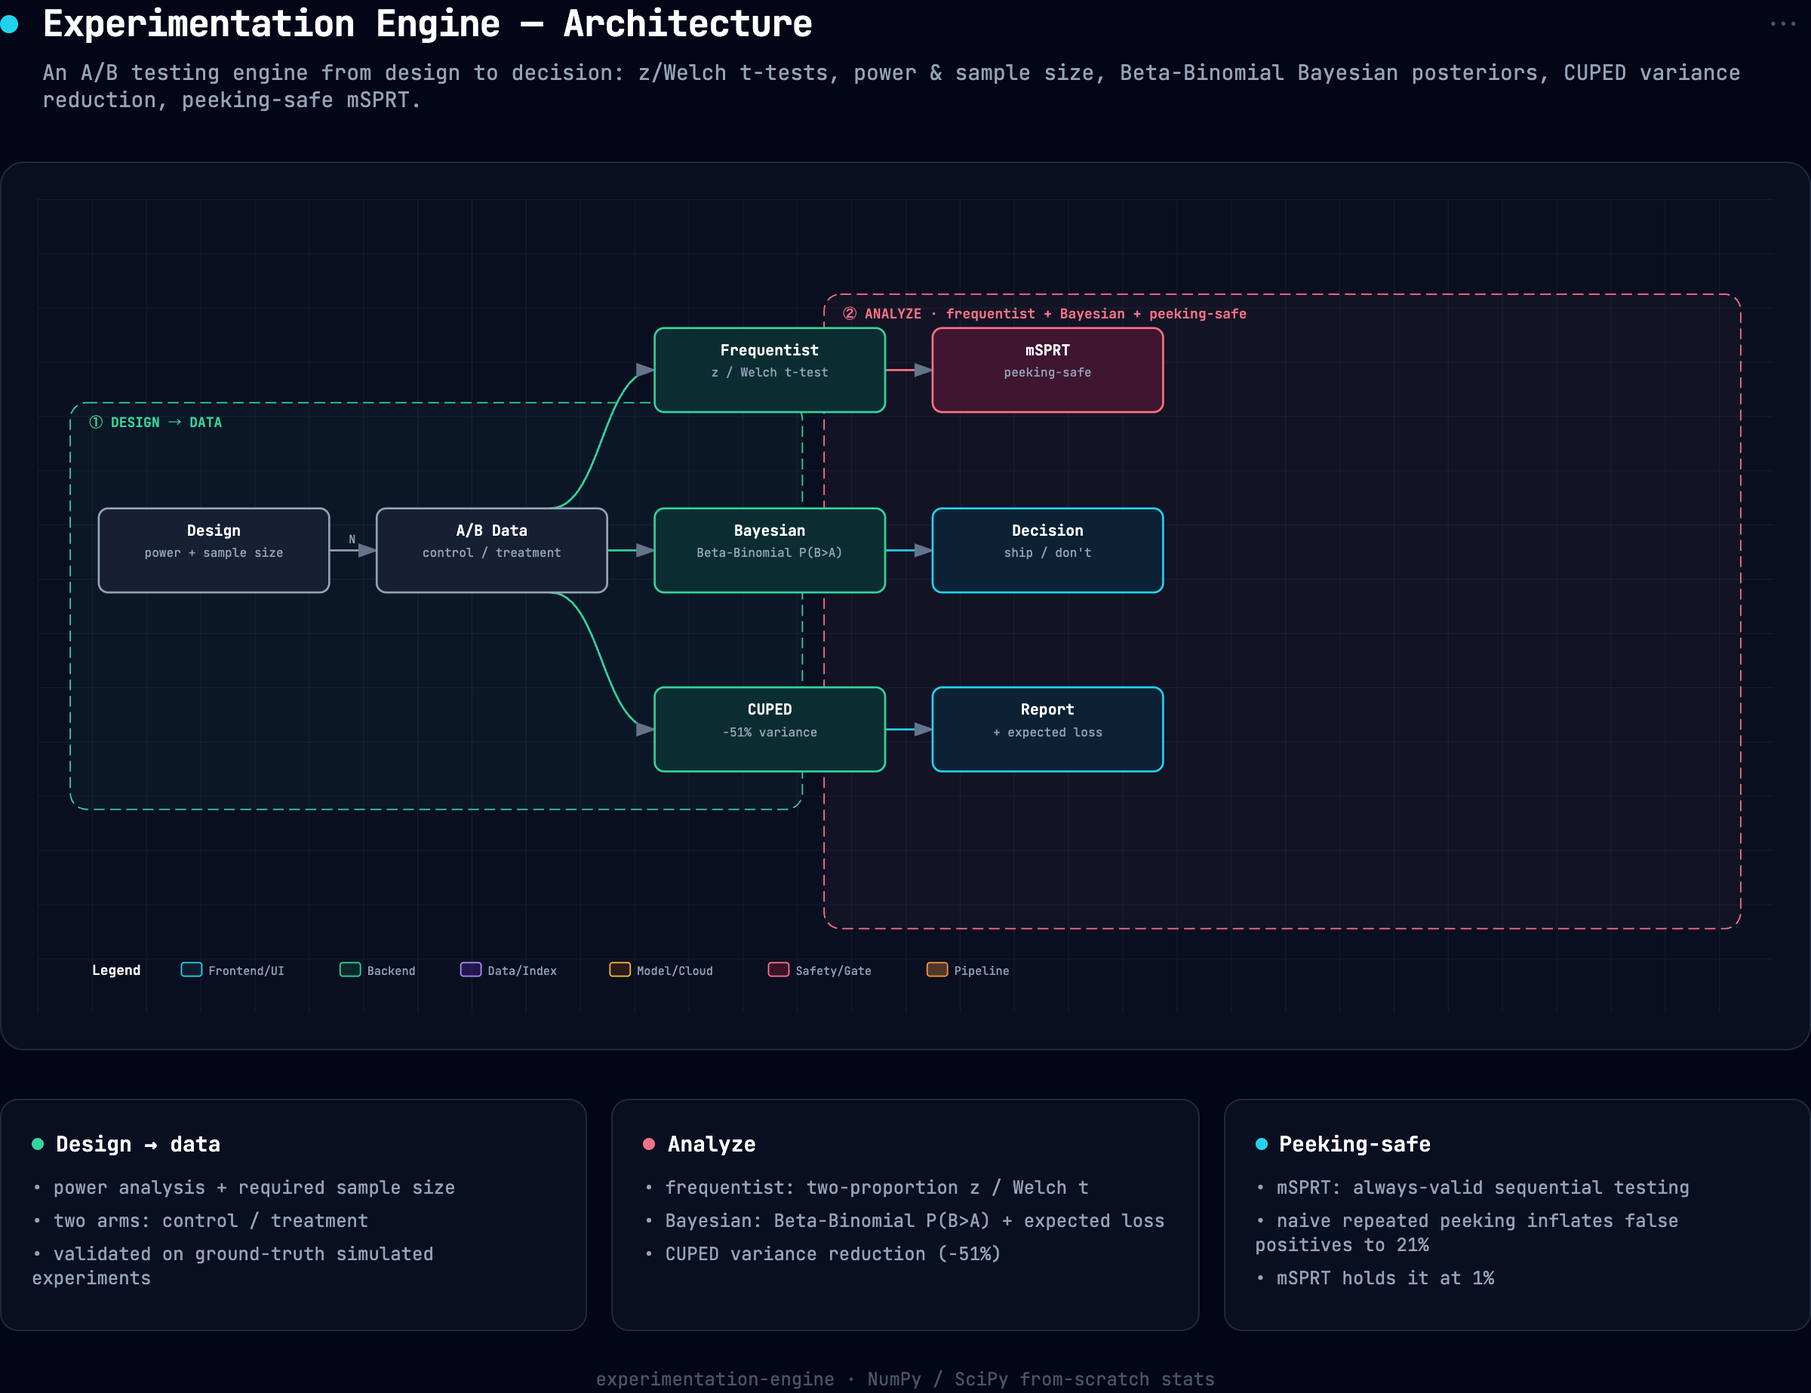
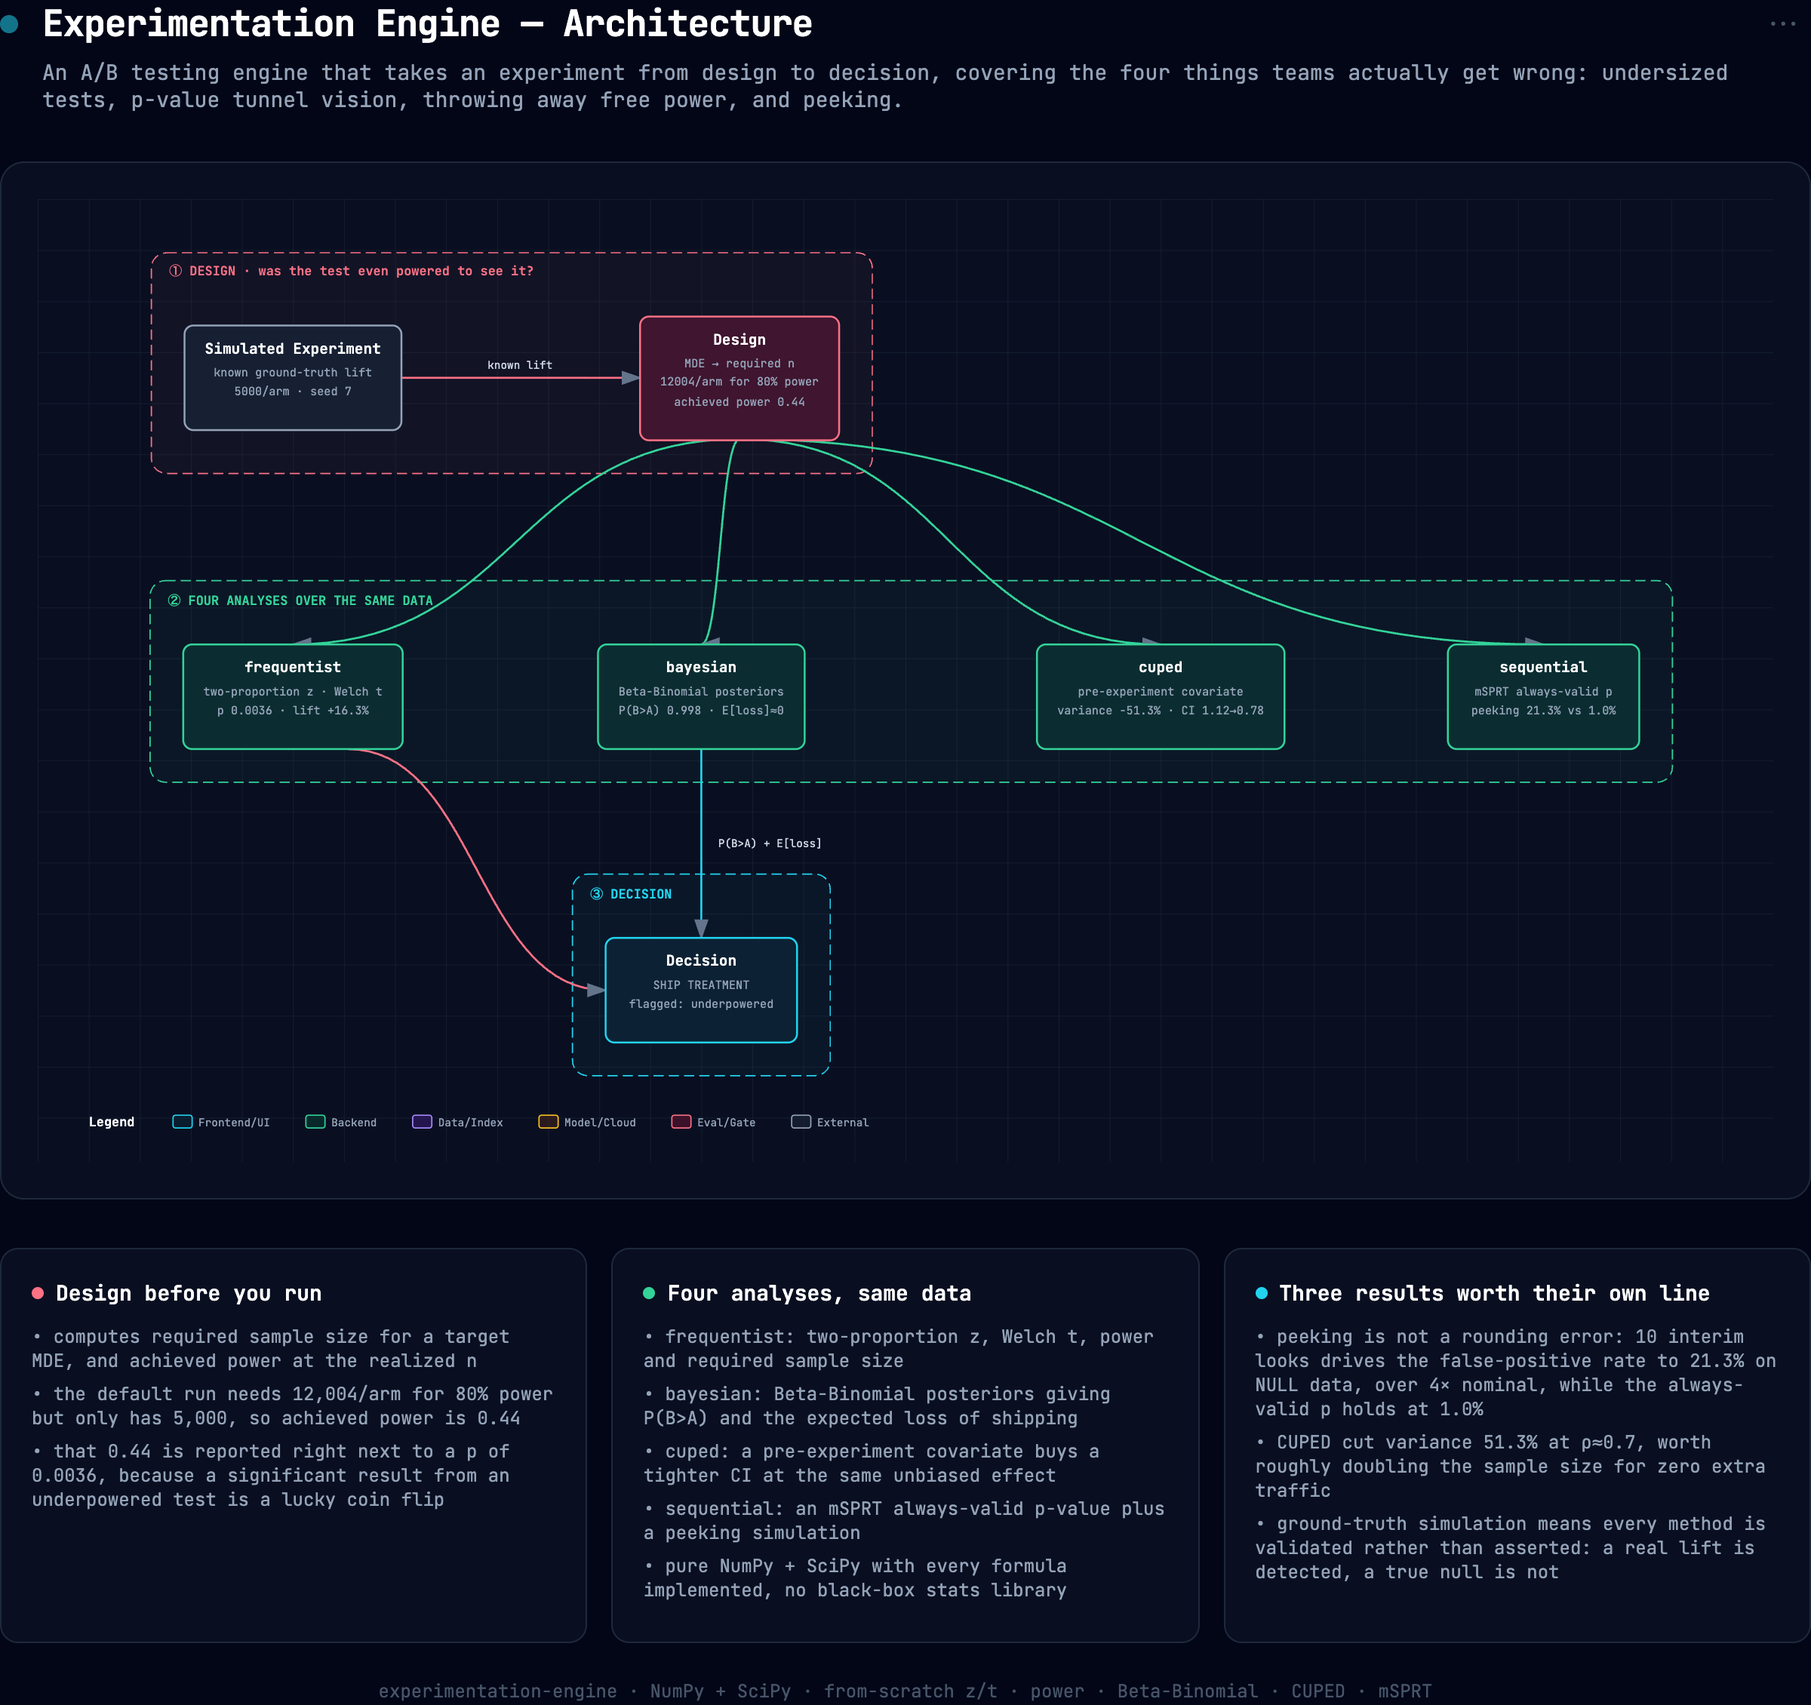
docs: rebuild architecture diagram with the geometry-validated generator
Layout: measured box widths, validated region and label clearances.

Content re-grounded in the README:
- design comes first on the canvas, with the real numbers: 12,004/arm needed
  for 80% power against 5,000 actually run, so achieved power is 0.44
- all four analysis modules carry their measured output: p 0.0036 and
  +16.3% lift, P(B>A) 0.998, variance -51.3% with CI 1.12 to 0.78, and
  peeking 21.3% vs always-valid 1.0%
- the peeking result is the one that changes behaviour, so it is on the box
  rather than buried in prose

diff --git a/docs/assets/architecture.html b/docs/assets/architecture.html
@@ -185,70 +185,77 @@
     <div class="header"><div class="header-row"><div class="pulse-dot"></div>
       <h1>Experimentation Engine — Architecture</h1>
       <div class="toolbar"><div class="toolbar-actions"><button onclick="copyAsImage(this)">📋 Copy</button><button onclick="downloadPNG(this)">🖼 PNG</button><button onclick="downloadPDF(this)">📄 PDF</button></div><button class="toolbar-toggle" onclick="this.parentElement.classList.toggle('expanded')">⋯</button></div>
-    </div><p class="subtitle">An A/B testing engine from design to decision: z/Welch t-tests, power &amp; sample size, Beta-Binomial Bayesian posteriors, CUPED variance reduction, peeking-safe mSPRT.</p></div>
-    <div class="diagram-container"><svg viewBox="0 0 1280 600">
+    </div><p class="subtitle">An A/B testing engine that takes an experiment from design to decision, covering the four things teams actually get wrong: undersized tests, p-value tunnel vision, throwing away free power, and peeking.</p></div>
+    <div class="diagram-container"><svg viewBox="0 0 1360 755">
 <defs><marker id="arrowhead" markerWidth="10" markerHeight="7" refX="9" refY="3.5" orient="auto"><polygon points="0 0, 10 3.5, 0 7" fill="#64748b"/></marker><marker id="loop" markerWidth="11" markerHeight="8" refX="9" refY="4" orient="auto"><polygon points="0 0, 11 4, 0 8" fill="#22d3ee"/></marker><pattern id="grid" width="40" height="40" patternUnits="userSpaceOnUse"><path d="M 40 0 L 0 0 0 40" fill="none" stroke="#1e293b" stroke-width="0.5"/></pattern></defs>
-<rect width="1280" height="600" fill="url(#grid)"/>
-<rect x="24" y="150" width="540" height="300" rx="12" fill="rgba(52,211,153,0.04)" stroke="#34d399" stroke-width="1" stroke-dasharray="8,4"/>
-<text x="38" y="168" fill="#34d399" font-size="10" font-weight="600">① DESIGN → DATA</text>
-<rect x="580" y="70" width="676" height="468" rx="12" fill="rgba(251,113,133,0.04)" stroke="#fb7185" stroke-width="1" stroke-dasharray="8,4"/>
-<text x="594" y="88" fill="#fb7185" font-size="10" font-weight="600">② ANALYZE  ·  frequentist + Bayesian + peeking-safe</text>
-<line x1="215" y1="259" x2="250" y2="259" stroke="#94a3b8" stroke-width="1.5" marker-end="url(#arrowhead)"/>
-<text x="232" y="254" fill="#94a3b8" font-size="8.5" text-anchor="middle">N</text>
-<path d="M 378 228 C 416 228, 416 126, 455 126" fill="none" stroke="#34d399" stroke-width="1.5" marker-end="url(#arrowhead)"/>
-<line x1="420" y1="259" x2="455" y2="259" stroke="#34d399" stroke-width="1.5" marker-end="url(#arrowhead)"/>
-<path d="M 378 290 C 416 290, 416 391, 455 391" fill="none" stroke="#34d399" stroke-width="1.5" marker-end="url(#arrowhead)"/>
-<line x1="625" y1="126" x2="660" y2="126" stroke="#fb7185" stroke-width="1.5" marker-end="url(#arrowhead)"/>
-<line x1="625" y1="259" x2="660" y2="259" stroke="#22d3ee" stroke-width="1.5" marker-end="url(#arrowhead)"/>
-<line x1="625" y1="391" x2="660" y2="391" stroke="#22d3ee" stroke-width="1.5" marker-end="url(#arrowhead)"/>
-<rect x="45" y="228" width="170" height="62" rx="7" fill="#0f172a"/>
-<rect x="45" y="228" width="170" height="62" rx="7" fill="rgba(30, 41, 59, 0.5)" stroke="#94a3b8" stroke-width="1.5"/>
-<text x="130" y="248" fill="#fff" font-size="11" font-weight="600" text-anchor="middle">Design</text>
-<text x="130" y="264" fill="#94a3b8" font-size="9" text-anchor="middle">power + sample size</text>
-<rect x="250" y="228" width="170" height="62" rx="7" fill="#0f172a"/>
-<rect x="250" y="228" width="170" height="62" rx="7" fill="rgba(30, 41, 59, 0.5)" stroke="#94a3b8" stroke-width="1.5"/>
-<text x="335" y="248" fill="#fff" font-size="11" font-weight="600" text-anchor="middle">A/B Data</text>
-<text x="335" y="264" fill="#94a3b8" font-size="9" text-anchor="middle">control / treatment</text>
-<rect x="455" y="95" width="170" height="62" rx="7" fill="#0f172a"/>
-<rect x="455" y="95" width="170" height="62" rx="7" fill="rgba(6, 78, 59, 0.4)" stroke="#34d399" stroke-width="1.5"/>
-<text x="540" y="115" fill="#fff" font-size="11" font-weight="600" text-anchor="middle">Frequentist</text>
-<text x="540" y="131" fill="#94a3b8" font-size="9" text-anchor="middle">z / Welch t-test</text>
-<rect x="455" y="228" width="170" height="62" rx="7" fill="#0f172a"/>
-<rect x="455" y="228" width="170" height="62" rx="7" fill="rgba(6, 78, 59, 0.4)" stroke="#34d399" stroke-width="1.5"/>
-<text x="540" y="248" fill="#fff" font-size="11" font-weight="600" text-anchor="middle">Bayesian</text>
-<text x="540" y="264" fill="#94a3b8" font-size="9" text-anchor="middle">Beta-Binomial P(B&gt;A)</text>
-<rect x="455" y="360" width="170" height="62" rx="7" fill="#0f172a"/>
-<rect x="455" y="360" width="170" height="62" rx="7" fill="rgba(6, 78, 59, 0.4)" stroke="#34d399" stroke-width="1.5"/>
-<text x="540" y="380" fill="#fff" font-size="11" font-weight="600" text-anchor="middle">CUPED</text>
-<text x="540" y="396" fill="#94a3b8" font-size="9" text-anchor="middle">−51% variance</text>
-<rect x="660" y="95" width="170" height="62" rx="7" fill="#0f172a"/>
-<rect x="660" y="95" width="170" height="62" rx="7" fill="rgba(136, 19, 55, 0.4)" stroke="#fb7185" stroke-width="1.5"/>
-<text x="745" y="115" fill="#fff" font-size="11" font-weight="600" text-anchor="middle">mSPRT</text>
-<text x="745" y="131" fill="#94a3b8" font-size="9" text-anchor="middle">peeking-safe</text>
-<rect x="660" y="228" width="170" height="62" rx="7" fill="#0f172a"/>
-<rect x="660" y="228" width="170" height="62" rx="7" fill="rgba(8, 51, 68, 0.4)" stroke="#22d3ee" stroke-width="1.5"/>
-<text x="745" y="248" fill="#fff" font-size="11" font-weight="600" text-anchor="middle">Decision</text>
-<text x="745" y="264" fill="#94a3b8" font-size="9" text-anchor="middle">ship / don't</text>
-<rect x="660" y="360" width="170" height="62" rx="7" fill="#0f172a"/>
-<rect x="660" y="360" width="170" height="62" rx="7" fill="rgba(8, 51, 68, 0.4)" stroke="#22d3ee" stroke-width="1.5"/>
-<text x="745" y="380" fill="#fff" font-size="11" font-weight="600" text-anchor="middle">Report</text>
-<text x="745" y="396" fill="#94a3b8" font-size="9" text-anchor="middle">+ expected loss</text>
-<text x="40" y="572" fill="#fff" font-size="10" font-weight="600">Legend</text>
-<rect x="106" y="563" width="15" height="10" rx="2" fill="rgba(8, 51, 68, 0.4)" stroke="#22d3ee" stroke-width="1"/>
-<text x="126" y="572" fill="#94a3b8" font-size="8.5">Frontend/UI</text>
-<rect x="223" y="563" width="15" height="10" rx="2" fill="rgba(6, 78, 59, 0.4)" stroke="#34d399" stroke-width="1"/>
-<text x="243" y="572" fill="#94a3b8" font-size="8.5">Backend</text>
-<rect x="312" y="563" width="15" height="10" rx="2" fill="rgba(76, 29, 149, 0.4)" stroke="#a78bfa" stroke-width="1"/>
-<text x="332" y="572" fill="#94a3b8" font-size="8.5">Data/Index</text>
-<rect x="422" y="563" width="15" height="10" rx="2" fill="rgba(120, 53, 15, 0.3)" stroke="#fbbf24" stroke-width="1"/>
-<text x="442" y="572" fill="#94a3b8" font-size="8.5">Model/Cloud</text>
-<rect x="539" y="563" width="15" height="10" rx="2" fill="rgba(136, 19, 55, 0.4)" stroke="#fb7185" stroke-width="1"/>
-<text x="559" y="572" fill="#94a3b8" font-size="8.5">Safety/Gate</text>
-<rect x="656" y="563" width="15" height="10" rx="2" fill="rgba(251, 146, 60, 0.3)" stroke="#fb923c" stroke-width="1"/>
-<text x="676" y="572" fill="#94a3b8" font-size="8.5">Pipeline</text>
+<rect width="1360" height="755" fill="url(#grid)"/>
+<rect x="89" y="42" width="565" height="173" rx="12" fill="rgba(251,113,133,0.04)" stroke="#fb7185" stroke-width="1" stroke-dasharray="8,4"/>
+<text x="103" y="60" fill="#fb7185" font-size="10" font-weight="600">① DESIGN · was the test even powered to see it?</text>
+<rect x="88" y="299" width="1193" height="158" rx="12" fill="rgba(52,211,153,0.04)" stroke="#34d399" stroke-width="1" stroke-dasharray="8,4"/>
+<text x="102" y="318" fill="#34d399" font-size="10" font-weight="600">② FOUR ANALYSES OVER THE SAME DATA</text>
+<rect x="419" y="529" width="202" height="158" rx="12" fill="rgba(34,211,238,0.04)" stroke="#22d3ee" stroke-width="1" stroke-dasharray="8,4"/>
+<text x="433" y="548" fill="#22d3ee" font-size="10" font-weight="600">③ DECISION</text>
+<line x1="285" y1="140" x2="472" y2="140" stroke="#fb7185" stroke-width="1.6" marker-end="url(#arrowhead)"/>
+<text x="378" y="133" fill="#cbd5e1" font-size="8.5" text-anchor="middle">known lift</text>
+<path d="M 550 188 C 375 188, 375 349, 200 349" fill="none" stroke="#34d399" stroke-width="1.6" marker-end="url(#arrowhead)"/>
+<path d="M 550 188 C 535 188, 535 349, 520 349" fill="none" stroke="#34d399" stroke-width="1.6" marker-end="url(#arrowhead)"/>
+<path d="M 550 188 C 715 188, 715 349, 880 349" fill="none" stroke="#34d399" stroke-width="1.6" marker-end="url(#arrowhead)"/>
+<path d="M 550 188 C 865 188, 865 349, 1180 349" fill="none" stroke="#34d399" stroke-width="1.6" marker-end="url(#arrowhead)"/>
+<line x1="520" y1="431" x2="520" y2="579" stroke="#22d3ee" stroke-width="1.6" marker-end="url(#arrowhead)"/>
+<text x="574" y="508" fill="#cbd5e1" font-size="8.5" text-anchor="middle">P(B&gt;A) + E[loss]</text>
+<path d="M 243 431 C 344 431, 344 620, 445 620" fill="none" stroke="#fb7185" stroke-width="1.6" marker-end="url(#arrowhead)"/>
+<rect x="115" y="99" width="170" height="82" rx="7" fill="#0f172a"/>
+<rect x="115" y="99" width="170" height="82" rx="7" fill="rgba(30, 41, 59, 0.5)" stroke="#94a3b8" stroke-width="1.5"/>
+<text x="200" y="121" fill="#fff" font-size="11.5" font-weight="600" text-anchor="middle">Simulated Experiment</text>
+<text x="200" y="139" fill="#94a3b8" font-size="9.0" text-anchor="middle">known ground-truth lift</text>
+<text x="200" y="154" fill="#94a3b8" font-size="9.0" text-anchor="middle">5000/arm · seed 7</text>
+<rect x="472" y="92" width="156" height="97" rx="7" fill="#0f172a"/>
+<rect x="472" y="92" width="156" height="97" rx="7" fill="rgba(136, 19, 55, 0.4)" stroke="#fb7185" stroke-width="1.5"/>
+<text x="550" y="114" fill="#fff" font-size="11.5" font-weight="600" text-anchor="middle">Design</text>
+<text x="550" y="132" fill="#94a3b8" font-size="9.0" text-anchor="middle">MDE → required n</text>
+<text x="550" y="146" fill="#94a3b8" font-size="9.0" text-anchor="middle">12004/arm for 80% power</text>
+<text x="550" y="162" fill="#94a3b8" font-size="9.0" text-anchor="middle">achieved power 0.44</text>
+<rect x="114" y="349" width="172" height="82" rx="7" fill="#0f172a"/>
+<rect x="114" y="349" width="172" height="82" rx="7" fill="rgba(6, 78, 59, 0.4)" stroke="#34d399" stroke-width="1.5"/>
+<text x="200" y="371" fill="#fff" font-size="11.5" font-weight="600" text-anchor="middle">frequentist</text>
+<text x="200" y="389" fill="#94a3b8" font-size="9.0" text-anchor="middle">two-proportion z · Welch t</text>
+<text x="200" y="404" fill="#94a3b8" font-size="9.0" text-anchor="middle">p 0.0036 · lift +16.3%</text>
+<rect x="439" y="349" width="162" height="82" rx="7" fill="#0f172a"/>
+<rect x="439" y="349" width="162" height="82" rx="7" fill="rgba(6, 78, 59, 0.4)" stroke="#34d399" stroke-width="1.5"/>
+<text x="520" y="371" fill="#fff" font-size="11.5" font-weight="600" text-anchor="middle">bayesian</text>
+<text x="520" y="389" fill="#94a3b8" font-size="9.0" text-anchor="middle">Beta-Binomial posteriors</text>
+<text x="520" y="404" fill="#94a3b8" font-size="9.0" text-anchor="middle">P(B&gt;A) 0.998 · E[loss]≈0</text>
+<rect x="783" y="349" width="194" height="82" rx="7" fill="#0f172a"/>
+<rect x="783" y="349" width="194" height="82" rx="7" fill="rgba(6, 78, 59, 0.4)" stroke="#34d399" stroke-width="1.5"/>
+<text x="880" y="371" fill="#fff" font-size="11.5" font-weight="600" text-anchor="middle">cuped</text>
+<text x="880" y="389" fill="#94a3b8" font-size="9.0" text-anchor="middle">pre-experiment covariate</text>
+<text x="880" y="404" fill="#94a3b8" font-size="9.0" text-anchor="middle">variance −51.3% · CI 1.12→0.78</text>
+<rect x="1105" y="349" width="150" height="82" rx="7" fill="#0f172a"/>
+<rect x="1105" y="349" width="150" height="82" rx="7" fill="rgba(6, 78, 59, 0.4)" stroke="#34d399" stroke-width="1.5"/>
+<text x="1180" y="371" fill="#fff" font-size="11.5" font-weight="600" text-anchor="middle">sequential</text>
+<text x="1180" y="389" fill="#94a3b8" font-size="9.0" text-anchor="middle">mSPRT always-valid p</text>
+<text x="1180" y="404" fill="#94a3b8" font-size="9.0" text-anchor="middle">peeking 21.3% vs 1.0%</text>
+<rect x="445" y="579" width="150" height="82" rx="7" fill="#0f172a"/>
+<rect x="445" y="579" width="150" height="82" rx="7" fill="rgba(8, 51, 68, 0.4)" stroke="#22d3ee" stroke-width="1.5"/>
+<text x="520" y="601" fill="#fff" font-size="11.5" font-weight="600" text-anchor="middle">Decision</text>
+<text x="520" y="619" fill="#94a3b8" font-size="9.0" text-anchor="middle">SHIP TREATMENT</text>
+<text x="520" y="634" fill="#94a3b8" font-size="9.0" text-anchor="middle">flagged: underpowered</text>
+<text x="40" y="727" fill="#fff" font-size="10" font-weight="600">Legend</text>
+<rect x="106" y="718" width="15" height="10" rx="2" fill="rgba(8, 51, 68, 0.4)" stroke="#22d3ee" stroke-width="1"/>
+<text x="126" y="727" fill="#94a3b8" font-size="8.5">Frontend/UI</text>
+<rect x="210.1" y="718" width="15" height="10" rx="2" fill="rgba(6, 78, 59, 0.4)" stroke="#34d399" stroke-width="1"/>
+<text x="230.1" y="727" fill="#94a3b8" font-size="8.5">Backend</text>
+<rect x="293.79999999999995" y="718" width="15" height="10" rx="2" fill="rgba(76, 29, 149, 0.4)" stroke="#a78bfa" stroke-width="1"/>
+<text x="313.79999999999995" y="727" fill="#94a3b8" font-size="8.5">Data/Index</text>
+<rect x="392.79999999999995" y="718" width="15" height="10" rx="2" fill="rgba(120, 53, 15, 0.3)" stroke="#fbbf24" stroke-width="1"/>
+<text x="412.79999999999995" y="727" fill="#94a3b8" font-size="8.5">Model/Cloud</text>
+<rect x="496.9" y="718" width="15" height="10" rx="2" fill="rgba(136, 19, 55, 0.4)" stroke="#fb7185" stroke-width="1"/>
+<text x="516.9" y="727" fill="#94a3b8" font-size="8.5">Eval/Gate</text>
+<rect x="590.8" y="718" width="15" height="10" rx="2" fill="rgba(30, 41, 59, 0.5)" stroke="#94a3b8" stroke-width="1"/>
+<text x="610.8" y="727" fill="#94a3b8" font-size="8.5">External</text>
 </svg></div>
-    <div class="cards"><div class="card"><div class="card-header"><div class="card-dot emerald"></div><h3>Design → data</h3></div><ul><li>• power analysis + required sample size</li><li>• two arms: control / treatment</li><li>• validated on ground-truth simulated experiments</li></ul></div><div class="card"><div class="card-header"><div class="card-dot rose"></div><h3>Analyze</h3></div><ul><li>• frequentist: two-proportion z / Welch t</li><li>• Bayesian: Beta-Binomial P(B&gt;A) + expected loss</li><li>• CUPED variance reduction (−51%)</li></ul></div><div class="card"><div class="card-header"><div class="card-dot cyan"></div><h3>Peeking-safe</h3></div><ul><li>• mSPRT: always-valid sequential testing</li><li>• naive repeated peeking inflates false positives to 21%</li><li>• mSPRT holds it at 1%</li></ul></div></div>
-    <p class="footer">experimentation-engine · NumPy / SciPy from-scratch stats</p>
+    <div class="cards"><div class="card"><div class="card-header"><div class="card-dot rose"></div><h3>Design before you run</h3></div><ul><li>• computes required sample size for a target MDE, and achieved power at the realized n</li><li>• the default run needs 12,004/arm for 80% power but only has 5,000, so achieved power is 0.44</li><li>• that 0.44 is reported right next to a p of 0.0036, because a significant result from an underpowered test is a lucky coin flip</li></ul></div><div class="card"><div class="card-header"><div class="card-dot emerald"></div><h3>Four analyses, same data</h3></div><ul><li>• frequentist: two-proportion z, Welch t, power and required sample size</li><li>• bayesian: Beta-Binomial posteriors giving P(B&gt;A) and the expected loss of shipping</li><li>• cuped: a pre-experiment covariate buys a tighter CI at the same unbiased effect</li><li>• sequential: an mSPRT always-valid p-value plus a peeking simulation</li><li>• pure NumPy + SciPy with every formula implemented, no black-box stats library</li></ul></div><div class="card"><div class="card-header"><div class="card-dot cyan"></div><h3>Three results worth their own line</h3></div><ul><li>• peeking is not a rounding error: 10 interim looks drives the false-positive rate to 21.3% on NULL data, over 4× nominal, while the always-valid p holds at 1.0%</li><li>• CUPED cut variance 51.3% at ρ≈0.7, worth roughly doubling the sample size for zero extra traffic</li><li>• ground-truth simulation means every method is validated rather than asserted: a real lift is detected, a true null is not</li></ul></div></div>
+    <p class="footer">experimentation-engine · NumPy + SciPy · from-scratch z/t · power · Beta-Binomial · CUPED · mSPRT</p>
   </div>
 <script>
     async function copyAsImage(btn) {
